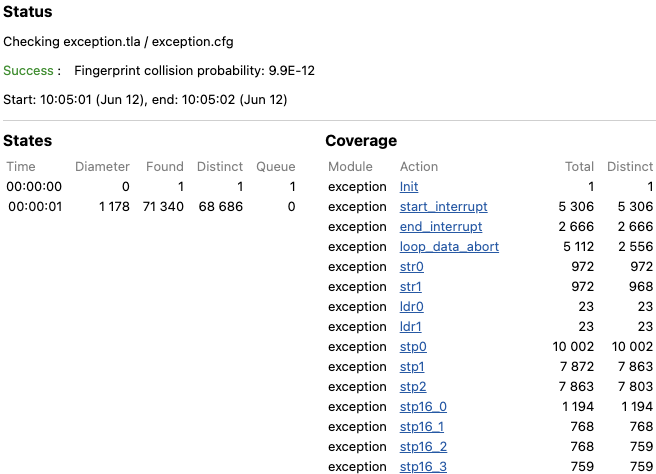
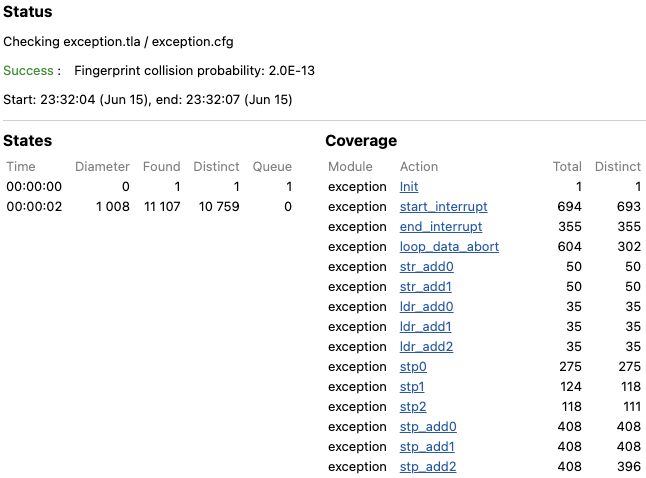
SPEC, ASYNC: fix exception.tla to avoid infinite loop
update task's state during locking the future of the task

diff --git a/awkernel_async_lib/src/task.rs b/awkernel_async_lib/src/task.rs
@@ -293,65 +293,55 @@ pub fn run_main() {
             let w = waker_ref(&task);
             let mut ctx = Context::from_waker(&w);
 
-            let result = {
-                let mut node = MCSNode::new();
-                let Some(mut guard) = task.future.try_lock(&mut node) else {
+            let mut node = MCSNode::new();
+            let Some(mut guard) = task.future.try_lock(&mut node) else {
                     // This task is running on another CPU,
                     // and re-schedule the task to avoid starvation just in case.
                     task.wake();
                     continue;
                 };
 
-                if guard.is_terminated() {
-                    continue;
-                }
+            if guard.is_terminated() {
+                continue;
+            }
 
-                // Use the primary memory allocator.
-                #[cfg(not(feature = "std"))]
-                unsafe {
-                    awkernel_lib::heap::TALLOC.use_primary()
-                };
+            // Use the primary memory allocator.
+            #[cfg(not(feature = "std"))]
+            unsafe {
+                awkernel_lib::heap::TALLOC.use_primary()
+            };
 
-                {
-                    let mut node = MCSNode::new();
-                    let mut info = task.info.lock(&mut node);
+            {
+                let mut node = MCSNode::new();
+                let mut info = task.info.lock(&mut node);
 
-                    info.update_last_executed();
-                    info.state = State::Running;
-                }
+                info.update_last_executed();
+                info.state = State::Running;
+            }
 
-                {
-                    let cpu_id = awkernel_lib::cpu::cpu_id();
-                    RUNNING[cpu_id].store(task.id, Ordering::Relaxed);
-                }
+            {
+                let cpu_id = awkernel_lib::cpu::cpu_id();
+                RUNNING[cpu_id].store(task.id, Ordering::Relaxed);
+            }
 
-                // Invoke a task.
-                let result = {
-                    catch_unwind(|| {
-                        #[cfg(all(target_arch = "aarch64", not(feature = "std")))]
-                        {
-                            awkernel_lib::interrupt::enable();
-                        }
+            // Invoke a task.
+            let result = {
+                catch_unwind(|| {
+                    #[cfg(all(target_arch = "aarch64", not(feature = "std")))]
+                    {
+                        awkernel_lib::interrupt::enable();
+                    }
 
-                        #[allow(clippy::let_and_return)]
-                        let result = guard.poll_unpin(&mut ctx);
+                    #[allow(clippy::let_and_return)]
+                    let result = guard.poll_unpin(&mut ctx);
 
-                        #[cfg(all(target_arch = "aarch64", not(feature = "std")))]
-                        {
-                            awkernel_lib::interrupt::disable();
-                        }
+                    #[cfg(all(target_arch = "aarch64", not(feature = "std")))]
+                    {
+                        awkernel_lib::interrupt::disable();
+                    }
 
-                        result
-                    })
-                };
-
-                {
-                    let cpu_id = awkernel_lib::cpu::cpu_id();
-                    let running_id = RUNNING[cpu_id].swap(0, Ordering::Relaxed);
-                    assert_eq!(running_id, task.id);
-                }
-
-                result
+                    result
+                })
             };
 
             // If the primary memory allocator is available, it will be used.
@@ -361,21 +351,23 @@ pub fn run_main() {
                 awkernel_lib::heap::TALLOC.use_primary_then_backup()
             };
 
+            let cpu_id = awkernel_lib::cpu::cpu_id();
+            let running_id = RUNNING[cpu_id].swap(0, Ordering::Relaxed);
+            assert_eq!(running_id, task.id);
+
+            let mut node = MCSNode::new();
+            let mut info = task.info.lock(&mut node);
+
             match result {
                 Ok(Poll::Pending) => {
                     // The task has not been terminated yet.
-                    let mut node = MCSNode::new();
-                    let mut info = task.info.lock(&mut node);
                     info.state = State::Waiting;
                 }
                 Ok(Poll::Ready(result)) => {
                     // The task has been terminated.
 
-                    {
-                        let mut node = MCSNode::new();
-                        let mut info = task.info.lock(&mut node);
-                        info.state = State::Terminated;
-                    }
+                    info.state = State::Terminated;
+                    drop(info);
 
                     if let Err(msg) = result {
                         log::warn!("Task has been terminated but failed: {msg}");
@@ -387,12 +379,8 @@ pub fn run_main() {
                 }
                 Err(err) => {
                     // Caught panic.
-
-                    {
-                        let mut node = MCSNode::new();
-                        let mut info = task.info.lock(&mut node);
-                        info.state = State::Panicked;
-                    }
+                    info.state = State::Panicked;
+                    drop(info);
 
                     log::error!("Task has panicked!: {:?}", err);
 
